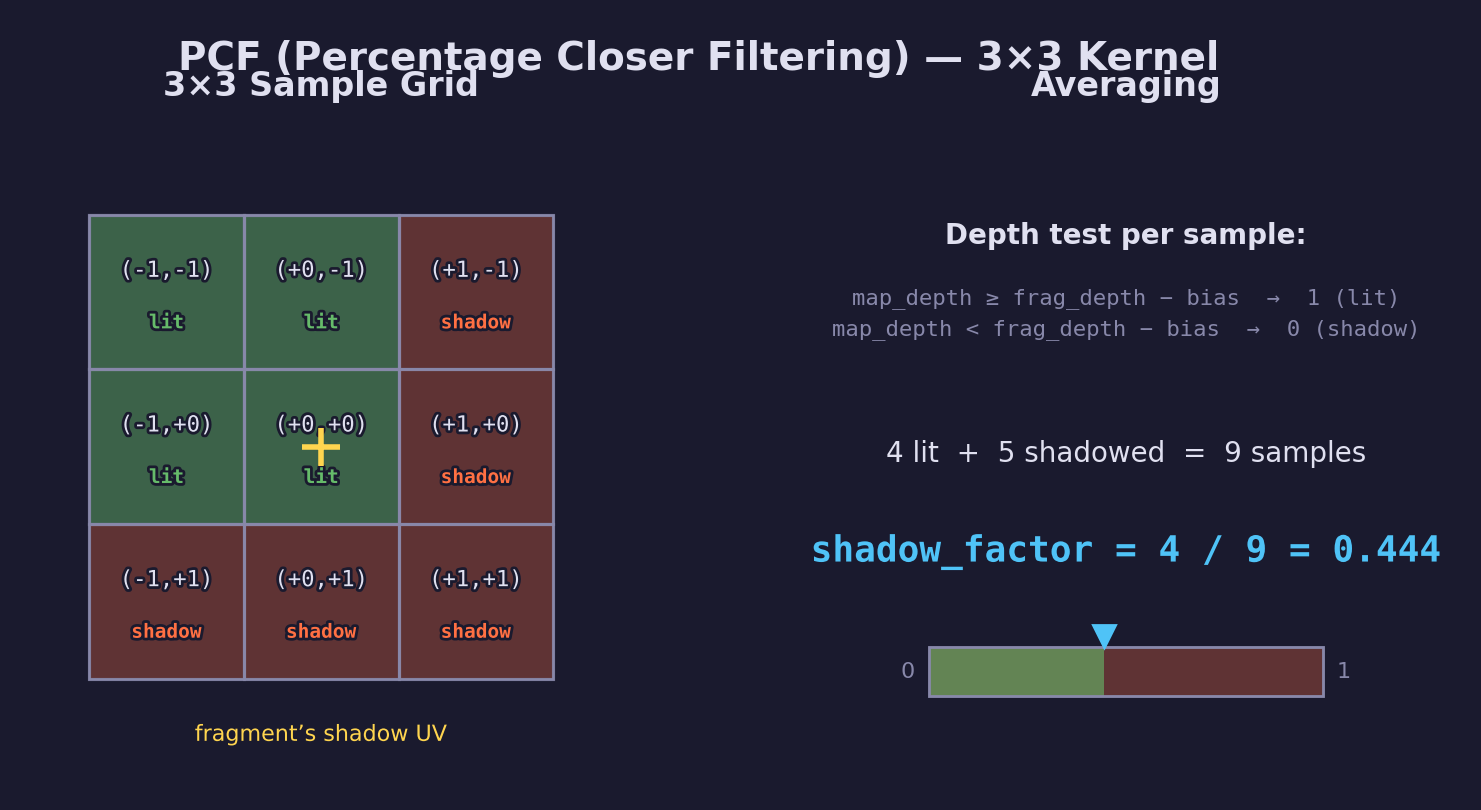
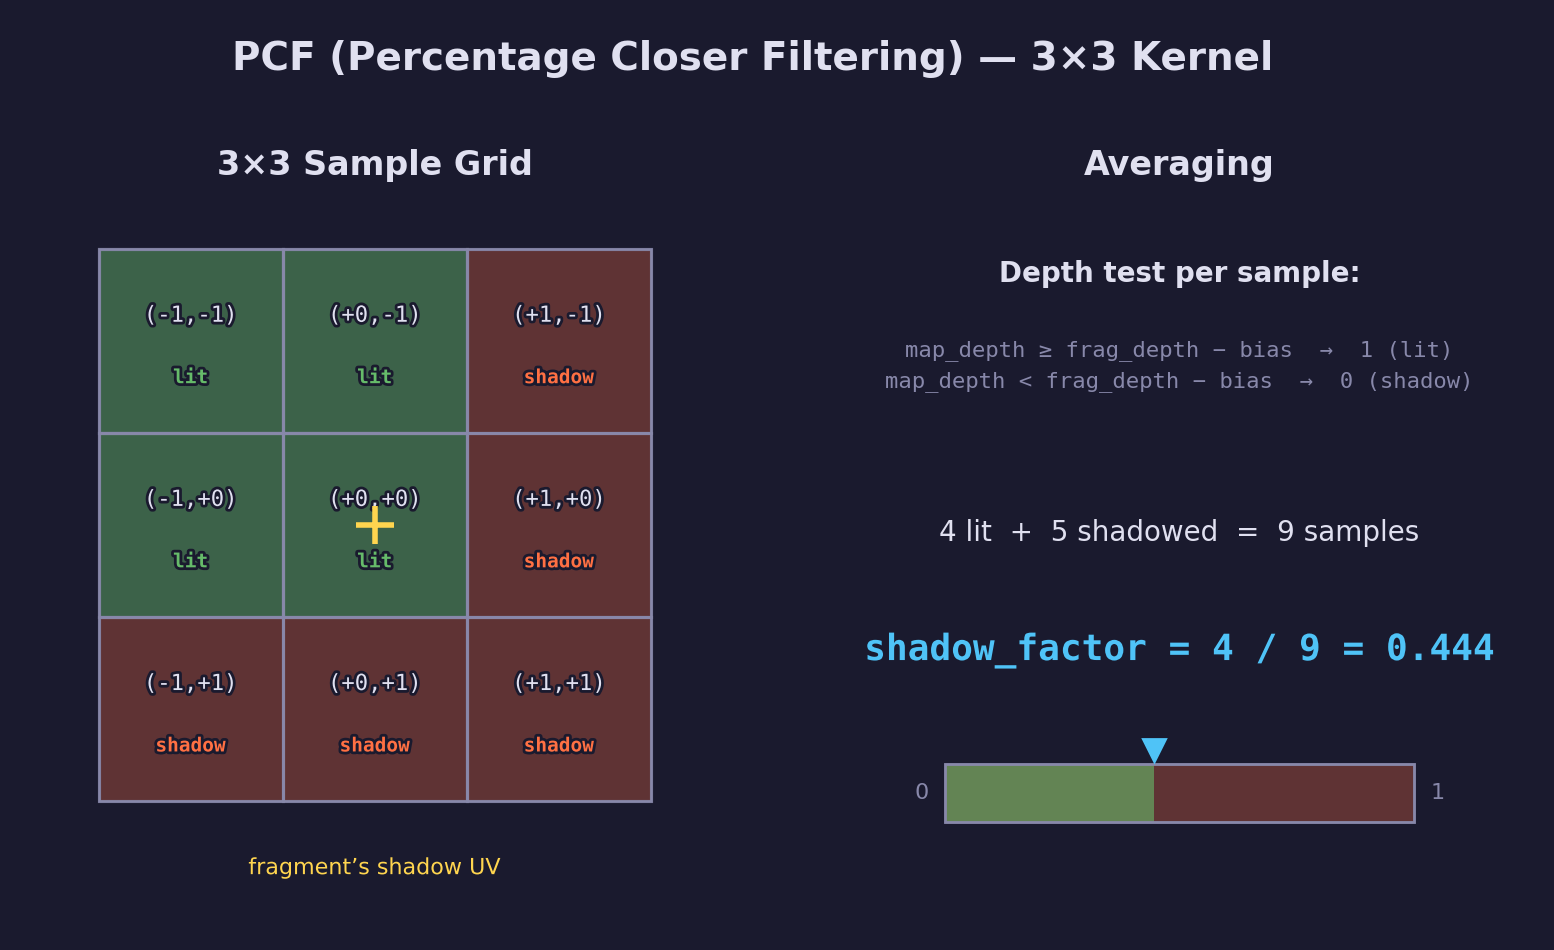
Lower PCF diagram column headers to clarify layout (#42)
The "3×3 Sample Grid" and "Averaging" subheaders were positioned too
close to the main title, making them look like part of it rather than
headers for their respective columns. Place them as in-axes text
elements instead of axis titles so they sit clearly above their content.

Fixes #40

diff --git a/scripts/forge_diagrams.py b/scripts/forge_diagrams.py
@@ -4095,7 +4095,7 @@ def diagram_pcf_kernel():
     fig, axes = plt.subplots(
         1,
         2,
-        figsize=(10, 4.2),
+        figsize=(10, 5.0),
         facecolor=STYLE["bg"],
         gridspec_kw={"width_ratios": [1, 1], "wspace": 0.08},
     )
@@ -4205,12 +4205,15 @@ def diagram_pcf_kernel():
         path_effects=[pe.withStroke(linewidth=2, foreground=STYLE["bg"])],
     )
 
-    ax_grid.set_title(
+    ax_grid.text(
+        0,
+        2.15,
         "3\u00d73 Sample Grid",
-        color=STYLE["text"],
+        ha="center",
+        va="center",
         fontsize=12,
         fontweight="bold",
-        pad=10,
+        color=STYLE["text"],
     )
 
     # --- Right panel: averaging result ------------------------------------
@@ -4344,12 +4347,15 @@ def diagram_pcf_kernel():
         markersize=8,
     )
 
-    ax_result.set_title(
+    ax_result.text(
+        0,
+        2.15,
         "Averaging",
-        color=STYLE["text"],
+        ha="center",
+        va="center",
         fontsize=12,
         fontweight="bold",
-        pad=10,
+        color=STYLE["text"],
     )
 
     # Overall title
@@ -4361,7 +4367,7 @@ def diagram_pcf_kernel():
         y=0.98,
     )
 
-    fig.tight_layout(rect=[0, 0, 1, 0.93])
+    fig.tight_layout(rect=[0, 0, 1, 0.90])
     _save(fig, "gpu/15-cascaded-shadow-maps", "pcf_kernel.png")
 
 
